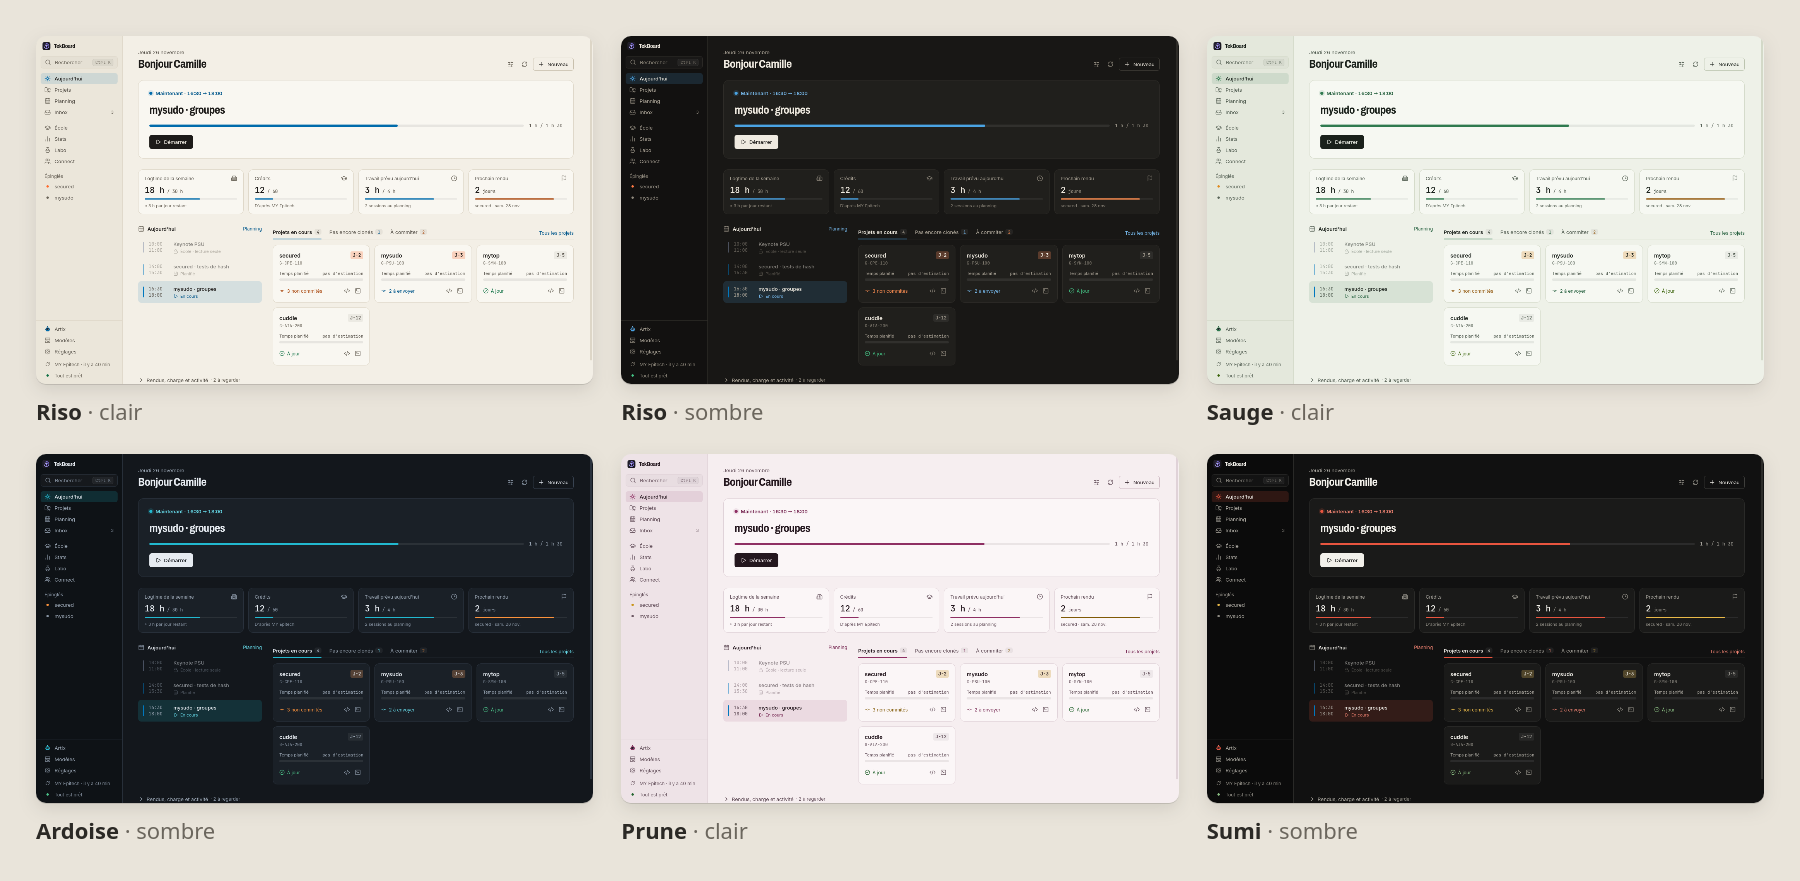
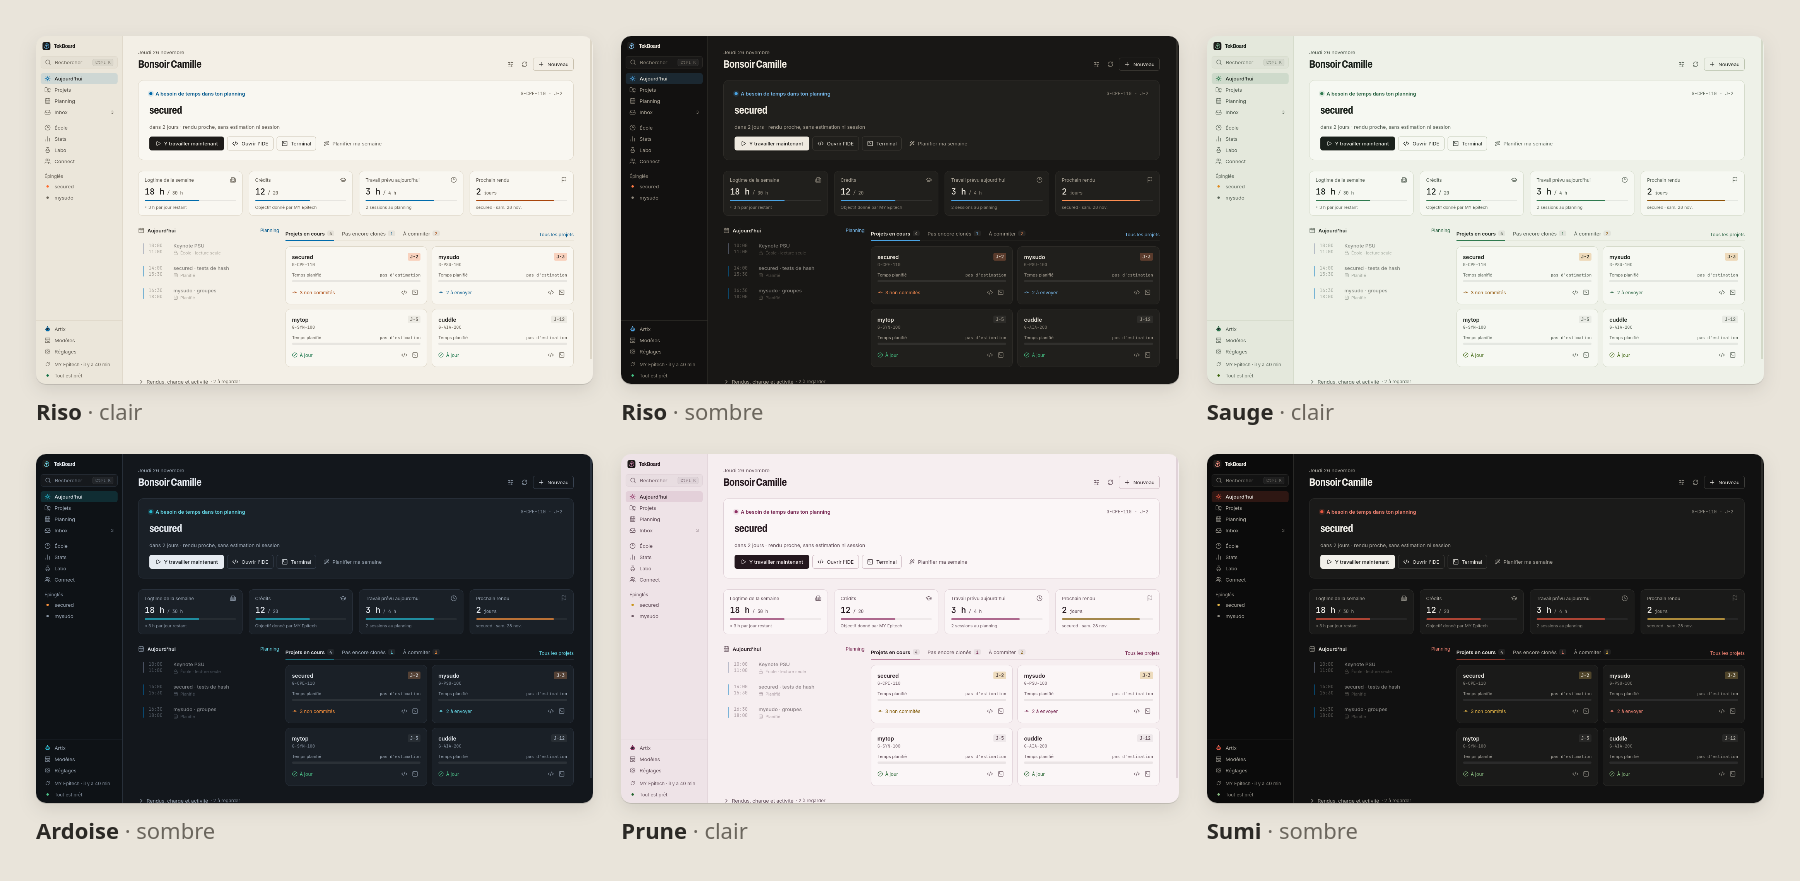
Documentation : README et captures de la 1.1 (crédits, Skill Tree en galaxie, couleur d'accent)

diff --git a/README.md b/README.md
@@ -12,41 +12,52 @@
 
 ## Ce que fait Tekboard
 
-- **Aujourd'hui** : ta journée sur une seule page : la session en cours, ton logtime, tes crédits, le prochain rendu, le planning du jour et tes projets actifs.
+- **Aujourd'hui** : ta journée en widgets : ce qu'il faut faire maintenant, ton logtime, tes crédits, le prochain rendu, le planning du jour et tes projets actifs. Tu déplaces, redimensionnes, ajoutes ou retires les blocs comme tu veux.
 - **Projets** : tous tes dépôts Epitech au même endroit, même rangés dans des sous-dossiers (`Epitech/Maths/101pong`…), avec leur état git, leur date de rendu et ce qu'il reste à faire. Les copies en double sont repérées, jamais supprimées.
 - **Planning** : un calendrier qui place tes sessions de travail avec des pauses, des catégories à toi, et les rendus de l'école.
-- **École** : synchronisation MY Epitech en un bouton (projets, dates, sujets, résultats), **logtime** de la semaine et **Skill Tree** (ta progression en arbre de compétences).
-- **Tests** : tests unitaires, coding style (Banana), clone propre du dépôt, et une moulinette simulée dans un bac à sable.
+- **École** : synchronisation MY Epitech en un bouton, puis :
+  - **Logtime** de la semaine ;
+  - **Crédits** : simulateur au barème PGE1, avec résultats officiels, en attente et simulés toujours séparés ;
+  - **Skill Tree** : ta progression en galaxie de compétences ;
+  - **Sujets** des projets.
+- **Tests** : tests unitaires, coding style (Banana), clone propre du dépôt, et la **Moulinette TekBoard**, qui lit le sujet, génère des tests Criterion et les lance dans un bac à sable, sans jamais donner la solution.
 - **Brain Dump** : une idée, un bug, une commande ou un lien noté en deux secondes (Ctrl+I, un raccourci global ou `tekboard capture`). Tout arrive dans l'**Inbox**, où tu ranges plus tard : tâche, note, snippet, projet, TekShare, Playground.
 - **Artix** : un assistant qui comprend « j'ai un rendez-vous jeudi à 14 h » et l'ajoute, décompose un sujet en tâches, organise ta semaine. Il fonctionne avec **Claude Code, OpenRouter (modèles gratuits) ou une IA locale**, ou sans IA du tout.
 - **Labo** :
-  - **Playground** : écrire et lancer du C tout de suite (sanitizers, Valgrind, bac à sable) ;
+  - **Playground** : écrire et lancer du C tout de suite (sanitizers, Valgrind, bac à sable, comparaison A/B de deux versions) ;
   - **Arena** : mesurer et comparer des algorithmes ou deux branches (temps, mémoire, instructions, complexité estimée) ;
   - **Tableaux blancs** : schématiser listes chaînées, arbres, mémoire ou architecture, seul ou à plusieurs.
-- **Connect** (facultatif, désactivé par défaut) : retrouver les TekBoard de tes camarades sur le même réseau local, puis partager avec **TekShare**, coder ensemble dans VS Code avec **TekLive**, ou se retrouver dans **TekSpace**, un petit campus en pixel art.
+- **Connect** (facultatif, désactivé par défaut) : retrouver les TekBoard de tes camarades sur le même réseau local, puis partager avec **TekShare**, coder ensemble dans VS Code avec **TekLive**, ou se retrouver dans **TekSpace**, un petit campus en pixel art avec musique partagée.
 - **Doctor** : un diagnostic de ton environnement, avec la solution à chaque problème.
 
 Tout reste sur ton ordinateur : pas de compte TekBoard, pas de serveur, pas de télémétrie. Connect relie directement deux ordinateurs du même réseau, sans passer par Internet.
 
-### Nouveau : la refonte Riso
+### Nouveau dans la 1.x
 
-- **Nouveau design, Riso** : deux encres sur papier, en clair, en sombre ou selon ton système. Moins de cadres, plus de place pour ton contenu.
-- **Quatre ambiances** : Sauge, Ardoise, Prune et Sumi, chacune en clair et en sombre, avec des textes toujours lisibles (contraste 4,5:1 minimum). L'option **Ambiance selon l'heure** passe d'une ambiance de jour à une ambiance du soir. Les anciens designs restent disponibles dans « Obsolètes ».
-- **Aujourd'hui à ta façon** : **Personnaliser** choisit les blocs affichés, leur ordre et les indicateurs. Un guide **Premiers pas** t'accompagne au début, et se masque.
-- **Navigation plus simple** : une entrée par section dans la barre latérale, les onglets dans la barre de page, une barre repliable (Ctrl+B), écran précédent et suivant (Alt+← / Alt+→), tous les raccourcis avec Ctrl+/.
-- **Palette plus utile (Ctrl+K)** : tes projets récents d'abord ; tape le nom d'un projet pour ses actions (fiche, IDE, terminal, Git, tests…).
-- **Annuler partout** : changement de statut, archivage, suppression, tâche cochée… un clic sur **Annuler** dans la notification.
-- **Synchro visible** : la barre latérale indique quand MY Epitech a été synchronisé ; un clic relance.
-- **Animations discrètes**, à couper dans **Réglages → Apparence → Effets et confort** (coupées aussi si ton système demande moins d'animations).
-- **Interface complète en français et en anglais.**
+**Design**
+- **Riso**, un nouveau design : deux encres sur papier, en clair, en sombre ou selon ton système. Moins de cadres, plus de place pour ton contenu.
+- **Quatre ambiances** : Sauge, Ardoise, Prune et Sumi, chacune en clair et en sombre, avec des textes toujours lisibles. L'option **Ambiance selon l'heure** passe d'une ambiance de jour à une ambiance du soir.
+- **Ta couleur d'accent** : 8 encres ou n'importe quelle couleur, ajustée pour rester lisible. L'icône de TekBoard suit l'ambiance.
+- **Navigation plus simple** : une entrée par section, les onglets dans la barre de page, barre latérale repliable (Ctrl+B), écran précédent et suivant (Alt+← / Alt+→), tous les raccourcis avec Ctrl+/.
+- **Annuler partout** depuis la notification, synchro MY Epitech visible dans la barre latérale, animations discrètes (à couper dans **Réglages → Apparence**).
+
+**École**
+- **Simulateur de crédits** : barème PGE1 2026, minimum par UE, scénarios enregistrés. Les unités validées sans note apparaissent en « Validés, note à venir » au lieu de compter pour 0.
+- **Skill Tree en galaxie** : chaque bloc est une constellation, chaque unité une étoile. On navigue au clic, à la liste ou au clavier.
+- **Plusieurs pistes de spécialisation**, choisies séparément pour chaque semestre.
+
+**Travail**
+- **Moulinette TekBoard** : plan de tests tiré du sujet, tests Criterion au format Epitech, résultats sans solution.
+- **Playground** : temps de compilation et d'exécution séparés, compilation incrémentale, comparaison A/B.
+- **Planning** en 24 h, avec des journées qui peuvent finir après minuit. Artix répond plus court et va à l'action.
 
 ![Les ambiances : Riso, Sauge, Ardoise, Prune et Sumi, en clair et en sombre](docs/screenshots/ambiances.png)
 
 | | |
 | --- | --- |
-| ![Projets](docs/screenshots/projects.png) | ![Planning, en sombre](docs/screenshots/planning.png) |
-| ![Inbox du Brain Dump](docs/screenshots/inbox.png) | ![Artix, l'assistant](docs/screenshots/artix.png) |
-| ![Logtime de la semaine](docs/screenshots/logtime.png) | ![Réglages d'apparence](docs/screenshots/appearance.png) |
+| ![Skill Tree en galaxie](docs/screenshots/skilltree.png) | ![Simulateur de crédits](docs/screenshots/credits.png) |
+| ![Projets](docs/screenshots/projects.png) | ![Planning](docs/screenshots/planning.png) |
+| ![Inbox du Brain Dump](docs/screenshots/inbox.png) | ![Apparence et couleur d'accent](docs/screenshots/appearance.png) |
 
 ## Installation rapide
 
@@ -271,7 +282,7 @@ L'architecture est décrite dans [docs/ARCHITECTURE.md](docs/ARCHITECTURE.md).
 
 ## English
 
-TekBoard is an independent personal project by Thibault Eininger, an Epitech student — not an official Epitech product and not affiliated with or endorsed by Epitech. It is a local-first desktop dashboard for Epitech students on Linux: repositories, hand-ins, planning, weekly logtime, MY Epitech sync and Artix, an AI assistant that acts through controlled tools. Install it with one command — `curl -fsSL https://raw.githubusercontent.com/ar-oxyo/tekboard-desktop/main/install.sh | bash` — or download the `.deb` (Ubuntu/Debian) or the AppImage from the [latest release](https://github.com/ar-oxyo/tekboard-desktop/releases/latest). Artix works with Claude Code, OpenRouter (free models, never a paid one without your consent) or a local model through Ollama, or without AI at all. The interface uses the Riso design and four extra ambiances (Sauge, Ardoise, Prune, Sumi), each in light and dark, and can be switched to English during the first-run setup or in Settings.
+TekBoard is an independent personal project by Thibault Eininger, an Epitech student — not an official Epitech product and not affiliated with or endorsed by Epitech. It is a local-first desktop dashboard for Epitech students on Linux: repositories, hand-ins, planning, weekly logtime, a credits simulator, a galaxy-style Skill Tree, MY Epitech sync and Artix, an AI assistant that acts through controlled tools. Install it with one command — `curl -fsSL https://raw.githubusercontent.com/ar-oxyo/tekboard-desktop/main/install.sh | bash` — or download the `.deb` (Ubuntu/Debian) or the AppImage from the [latest release](https://github.com/ar-oxyo/tekboard-desktop/releases/latest). Artix works with Claude Code, OpenRouter (free models, never a paid one without your consent) or a local model through Ollama, or without AI at all. The interface uses the Riso design and four extra ambiances (Sauge, Ardoise, Prune, Sumi), each in light and dark, and can be switched to English during the first-run setup or in Settings.
 
 ## Licence
 

diff --git a/PRODUCT.md b/PRODUCT.md
@@ -52,8 +52,8 @@ Success means a student knows what is due, what state each project is in and wha
 
 ## Evidence on Hand
 
-- Real app screenshots: `docs/screenshots/` (today en sombre, projects, planning, inbox, artix, logtime, appearance, ambiances), taken from the dev demo UI.
-- Feature truth: `README.md`, `CHANGELOG.md` (releases up to 0.9.0), `docs/ARCHITECTURE.md`, `SECURITY.md`.
+- Real app screenshots: `docs/screenshots/` (today en sombre, projects, planning, inbox, skilltree, credits, appearance, ambiances), taken from the dev demo UI.
+- Feature truth: `README.md`, `CHANGELOG.md` (releases up to 1.1.0), `docs/ARCHITECTURE.md`, `SECURITY.md`.
 - License: GPL-3.0.
 - No testimonials, user numbers, press or endorsements exist. Future work must not invent any, nor imply any link with Epitech.
 
